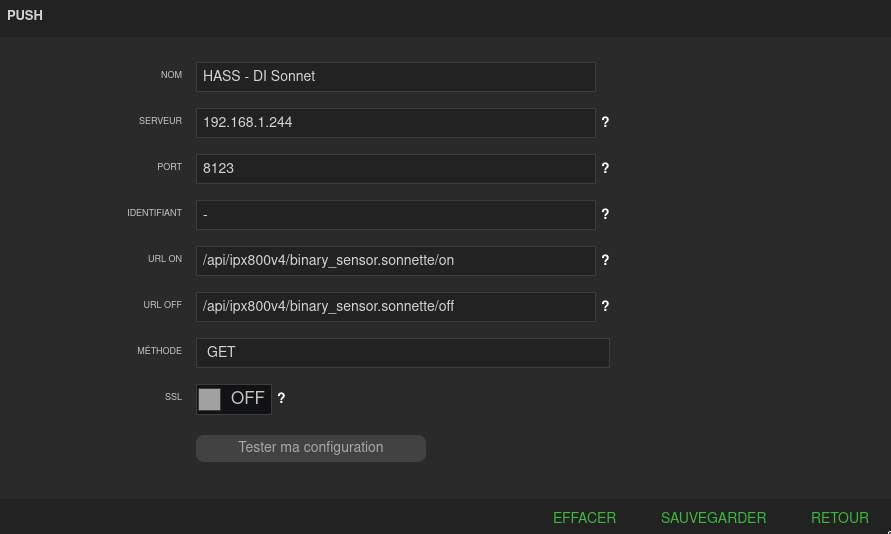
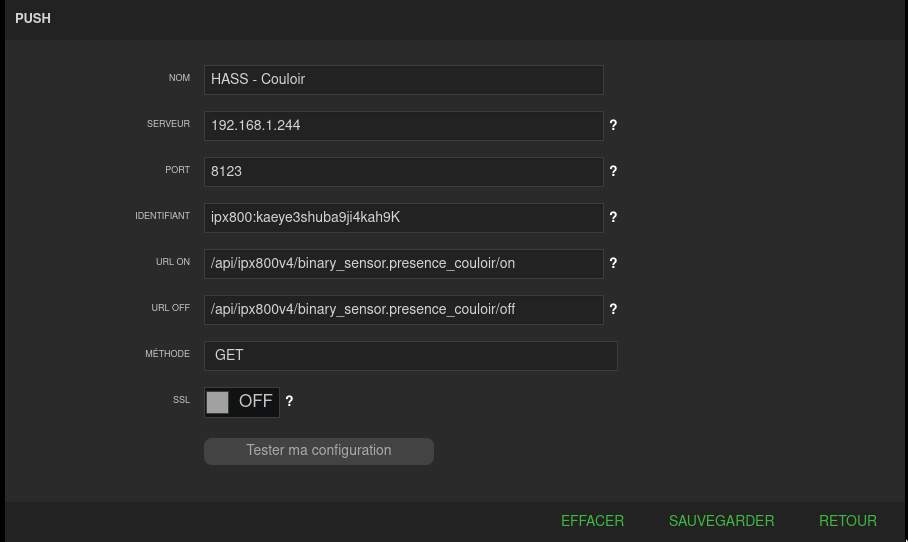
add api auth

diff --git a/custom_components/ipx800v4/__init__.py b/custom_components/ipx800v4/__init__.py
@@ -1,4 +1,5 @@
 """Support for the GCE IPX800 V4."""
+import base64
 from datetime import timedelta
 import logging
 import re
@@ -42,6 +43,7 @@ from .const import (
     CONF_EXT_ID,
     CONF_ID,
     CONF_IDS,
+    CONF_PUSH_PASSWORD,
     CONF_TRANSITION,
     CONF_TYPE,
     CONF_TYPE_ALLOWED,
@@ -49,6 +51,7 @@ from .const import (
     COORDINATOR,
     DEFAULT_TRANSITION,
     DOMAIN,
+    PUSH_USERNAME,
     REQUEST_REFRESH_DELAY,
     TYPE_RELAY,
     TYPE_X4VR,
@@ -103,7 +106,7 @@ async def async_setup(hass: HomeAssistantType, config: ConfigType) -> bool:
     hass.data.setdefault(DOMAIN, {})
 
     if DOMAIN in config:
-        for gateway in config.get(DOMAIN):
+        for gateway in config[DOMAIN]:
             hass.async_create_task(
                 hass.config_entries.flow.async_init(
                     DOMAIN, context={"source": SOURCE_IMPORT}, data=gateway
@@ -147,7 +150,7 @@ async def async_setup_entry(hass: HomeAssistantType, entry: ConfigEntry) -> bool
         except Ipx800CannotConnectError as err:
             raise UpdateFailed(f"Failed to communicating with API: {err}") from err
 
-    scan_interval = int(entry.data.get(CONF_SCAN_INTERVAL))
+    scan_interval = entry.data[CONF_SCAN_INTERVAL]
 
     if scan_interval < 10:
         _LOGGER.warning(
@@ -209,8 +212,18 @@ async def async_setup_entry(hass: HomeAssistantType, entry: ConfigEntry) -> bool
         )
 
     # Provide endpoints for the IPX to call to push states
-    hass.http.register_view(IpxRequestView)
-    hass.http.register_view(IpxRequestDataView)
+    if CONF_PUSH_PASSWORD in entry.data:
+        hass.http.register_view(
+            IpxRequestView(entry.data[CONF_HOST], entry.data[CONF_PUSH_PASSWORD])
+        )
+        hass.http.register_view(
+            IpxRequestDataView(entry.data[CONF_HOST], entry.data[CONF_PUSH_PASSWORD])
+        )
+    else:
+        _LOGGER.info(
+            "No %s parameter provided in configuration, skip API call handling for IPX800 PUSH.",
+            CONF_PUSH_PASSWORD,
+        )
 
     return True
 
@@ -347,8 +360,21 @@ class IpxRequestView(HomeAssistantView):
     url = "/api/ipx800v4/{entity_id}/{state}"
     name = "api:ipx800v4"
 
+    def __init__(self, host: str, password: str) -> None:
+        """Init the IPX view."""
+        self.host = host
+        self.password = password
+        super().__init__()
+
     async def get(self, request, entity_id, state):
         """Respond to requests from the device."""
+        if request.remote != self.host:
+            raise ApiCallNotAuthorized("API call not coming from IPX800 IP.")
+        if "Authorization" not in request.headers:
+            raise ApiCallNotAuthorized("API call not provider authentication.")
+        api_auth = base64.b64decode(request.headers["Authorization"]).split(":")
+        if api_auth[0] != PUSH_USERNAME and api_auth[1] != self.password:
+            raise ApiCallNotAuthorized("API call authentication invalid.")
         hass = request.app["hass"]
         old_state = hass.states.get(entity_id)
         _LOGGER.debug("Update %s to state %s.", entity_id, state)
@@ -365,8 +391,21 @@ class IpxRequestDataView(HomeAssistantView):
     url = "/api/ipx800v4_data/{data}"
     name = "api:ipx800v4_data"
 
+    def __init__(self, host: str, password: str) -> None:
+        """Init the IPX view."""
+        self.host = host
+        self.password = password
+        super().__init__()
+
     async def get(self, request, data):
         """Respond to requests from the device."""
+        if request.remote != self.host:
+            raise ApiCallNotAuthorized("API call not coming from IPX800 IP.")
+        if "Authorization" not in request.headers:
+            raise ApiCallNotAuthorized("API call not provider authentication.")
+        api_auth = base64.b64decode(request.headers["Authorization"]).split(":")
+        if api_auth[0] != PUSH_USERNAME and api_auth[1] != self.password:
+            raise ApiCallNotAuthorized("API call authentication invalid.")
         hass = request.app["hass"]
         entities_data = data.split("&")
         for entity_data in entities_data:
@@ -381,6 +420,10 @@ class IpxRequestDataView(HomeAssistantView):
                 _LOGGER.warning("Entity not found for state updating: %s", entity_id)
 
         return web.Response(status=HTTP_OK, text="OK")
+
+
+class ApiCallNotAuthorized(BaseException):
+    """API call for IPX800 view not authorized."""
 
 
 class IpxDevice(CoordinatorEntity):
@@ -401,7 +444,7 @@ class IpxDevice(CoordinatorEntity):
         self._name = device_config.get(CONF_NAME)
         self._device_name = self._name
         if suffix_name:
-            self._name += f" {suffix_name}"
+            self._name = f"{self._name} {suffix_name}"
 
         self._device_class = device_config.get(CONF_DEVICE_CLASS)
         self._unit_of_measurement = device_config.get(CONF_UNIT_OF_MEASUREMENT)

diff --git a/custom_components/ipx800v4/const.py b/custom_components/ipx800v4/const.py
@@ -5,6 +5,7 @@ CONTROLLER = "controller"
 COORDINATOR = "coordinator"
 UNDO_UPDATE_LISTENER = "undo_update_listener"
 GLOBAL_PARALLEL_UPDATES = 1
+PUSH_USERNAME = "ipx800"
 
 DEFAULT_TRANSITION = 0.5
 REQUEST_REFRESH_DELAY = 0.5
@@ -16,6 +17,7 @@ CONF_DEFAULT_BRIGHTNESS = "default_brightness"
 CONF_ID = "id"
 CONF_IDS = "ids"
 CONF_EXT_ID = "ext_id"
+CONF_PUSH_PASSWORD = "push_password"
 CONF_TRANSITION = "transition"
 CONF_TYPE = "type"
 

diff --git a/README.md b/README.md
@@ -36,6 +36,9 @@ You can control by setting the type of the device:
 
 ## Push data from the IPX800
 
+First, if you want to push data from your IPX800, you have to set a password on `push_password` config parameter.
+Then in your IPX800 PUSH configuration, in the `Identifiant` field, set : `ipx800:mypassword`.
+
 You can update value of a entity by set a Push command in a IPX800 scenario. Usefull to update directly binary_sensor and switch.
 In `URL ON` and `URL_OFF` set `/api/ipx800v4/entity_id/state`:
 
@@ -150,6 +153,10 @@ scan_interval:
   required: false
   default: 10
   type: int
+push_password:
+  description: Define a password to allow API calls from IPX800 PUSH
+  required: false
+  type: string
 devices:
   component:
     description: device type

diff --git a/README.fr.md b/README.fr.md
@@ -34,6 +34,9 @@ Vous pouvez contrôller ces types d'appareil :
 
 ## Push état depuis l'IPX800
 
+Premièrement, si vous souhaitez poussez des états depuis votre IPX800, vous devez choisir un mot de passe et le préciser dans le paramètre `push_password` de votre configuration.
+Ensuite, dans la configuration PUSH de l'IPX800, dans le champ `Identifiant`, mettez `ipx800:monmotdepasse` (avec la même valeur que le paramètre défini après le `:`).
+
 Vous pouvez mettre à jour la valeur d'une entité en définissant une commande Push dans l'IPX800 via un scénario.
 Utile pour mettre à jour directement un binary_sensor ou un  switch sans attendre la prochaine récupération d'état.
 Dans `URL ON` et `URL_OFF` mettre `/api/ipx800/entity_id/state`:

diff --git a/CHANGELOG.md b/CHANGELOG.md
@@ -1,5 +1,10 @@
 # Changelog
 
+## 2.4.0
+
+- BREAKING CHANGE: Authentication now needed to PUSH data from IPX800. See README for more information
+- Check source IP for PUSH call to check if the call is made by the IPX800 IP
+
 ## 2.3.0
 
 - Use new color mode for lights
